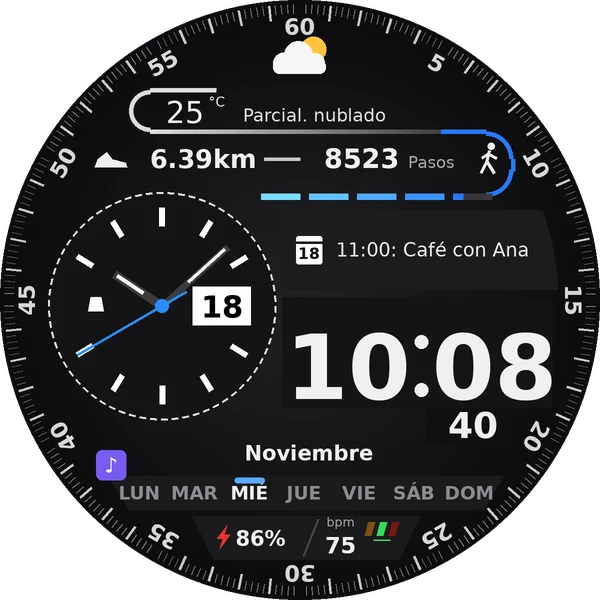
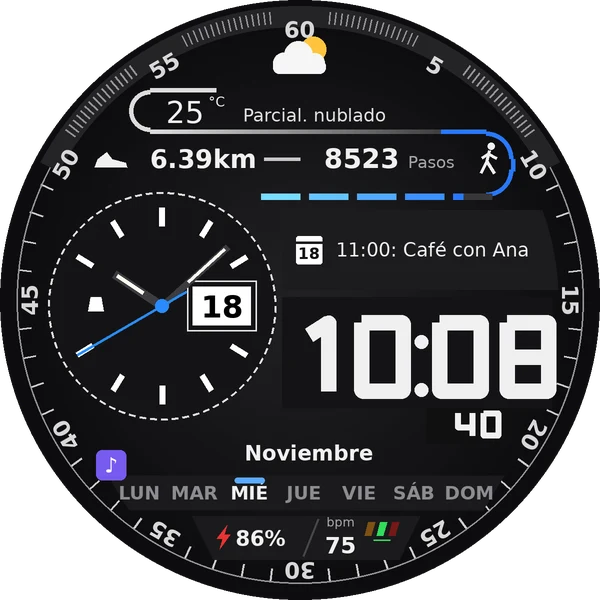
Pulso Híbrida: hora con números cuadrados, fecha con recuadro, ícono real del clima y escala como la foto
Claude-Session: https://claude.ai/code/session_01RTdv2VrACuR4VFWJLA57hx

diff --git a/android/esferas-de-reloj/hibrida/src/main/java/cl/carlospnauto/esfera/FaceService.kt b/android/esferas-de-reloj/hibrida/src/main/java/cl/carlospnauto/esfera/FaceService.kt
@@ -270,26 +270,58 @@ class HybridRenderer(
         canvas.drawCircle(cx, cy, r, fill)
         fill.shader = null
 
-        // ===== Escala del borde: rayitas finas, marcas cada 5 y los números 5…60 =====
+        // ===== Escala del borde (como la foto) =====
+        // Arriba (del 50 al 10): banda algo más clara con rayitas finas y apretadas entre los números
+        stroke.strokeCap = Paint.Cap.BUTT
+        stroke.color = Color.rgb(36, 36, 38)
+        stroke.strokeWidth = r * 0.07f
+        canvas.drawArc(RectF(cx - r * 0.945f, cy - r * 0.945f, cx + r * 0.945f, cy + r * 0.945f), -90f - 62f, 124f, false, stroke)
         for (i in 0 until 300) {
-            val ang = Math.toRadians(i * 1.2 - 90).toFloat()
-            val major = i % 25 == 0
-            val mid = i % 5 == 0
-            if (major) continue
-            val r0 = if (mid) 0.935f else 0.955f
-            stroke.color = if (mid) Color.rgb(200, 200, 200) else Color.rgb(120, 120, 125)
-            stroke.strokeWidth = r * (if (mid) 0.009f else 0.0045f)
-            canvas.drawLine(cx + cos(ang) * r * r0, cy + sin(ang) * r * r0, cx + cos(ang) * r * 0.985f, cy + sin(ang) * r * 0.985f, stroke)
+            val deg = i * 1.2f
+            val fromTop = if (deg > 180f) 360f - deg else deg
+            if (fromTop > 61f) continue
+            // Hueco para cada número
+            val toNum = (deg % 30f).let { minOf(it, 30f - it) }
+            if (toNum < 5.5f) continue
+            val ang = Math.toRadians(deg - 90.0).toFloat()
+            stroke.color = Color.rgb(150, 150, 155)
+            stroke.strokeWidth = r * 0.005f
+            canvas.drawLine(cx + cos(ang) * r * 0.925f, cy + sin(ang) * r * 0.925f, cx + cos(ang) * r * 0.965f, cy + sin(ang) * r * 0.965f, stroke)
         }
+        // Resto: una rayita por minuto, más larga en los 5, unidas por una línea escalonada
+        for (m in 0 until 60) {
+            val deg = m * 6f
+            val fromTop = if (deg > 180f) 360f - deg else deg
+            if (fromTop < 62f || m % 5 == 0) continue
+            val ang = Math.toRadians(deg - 90.0).toFloat()
+            stroke.color = Color.rgb(205, 205, 205)
+            stroke.strokeWidth = r * 0.008f
+            canvas.drawLine(cx + cos(ang) * r * 0.90f, cy + sin(ang) * r * 0.90f, cx + cos(ang) * r * 0.945f, cy + sin(ang) * r * 0.945f, stroke)
+        }
+        stroke.color = Color.rgb(150, 150, 155)
+        stroke.strokeWidth = r * 0.005f
+        for (side in listOf(1f, -1f)) {
+            // Línea fina del borde en la mitad de abajo (de un costado al otro)
+            canvas.drawArc(RectF(cx - r * 0.945f, cy - r * 0.945f, cx + r * 0.945f, cy + r * 0.945f), if (side > 0) -28f else 152f, 56f, false, stroke)
+        }
+        canvas.drawArc(RectF(cx - r * 0.945f, cy - r * 0.945f, cx + r * 0.945f, cy + r * 0.945f), 28f, 124f, false, stroke)
+        stroke.strokeCap = Paint.Cap.ROUND
         for (k in 1..12) {
             canvas.save()
             canvas.rotate(k * 30f, cx, cy)
-            write(canvas, "${k * 5}", cx, cy - r * 0.925f + r * 0.035f, r * 0.075f, Color.rgb(215, 215, 215), condensed, Paint.Align.CENTER)
+            write(canvas, "${k * 5}", cx, cy - r * 0.93f + r * 0.03f, r * 0.075f, Color.rgb(225, 225, 225), condensed, Paint.Align.CENTER)
             canvas.restore()
         }
 
         // ===== Clima =====
-        // Ícono (sol detrás de una nube)
+        // Ícono del clima que manda el dato elegido (sol, nube, lluvia…); si no trae, sol con nube
+        val wIcon = weatherIcon()
+        if (wIcon != null) {
+            val s = (r * 0.08f).toInt()
+            wIcon.setBounds((X(0f) - s).toInt(), (Y(-0.785f) - s).toInt(), (X(0f) + s).toInt(), (Y(-0.785f) + s).toInt())
+            wIcon.setTint(Color.WHITE)
+            wIcon.draw(canvas)
+        } else {
         fill.color = Color.rgb(255, 196, 60)
         canvas.drawCircle(X(0.045f), Y(-0.835f), r * 0.042f, fill)
         stroke.color = Color.rgb(255, 196, 60)
@@ -303,6 +335,7 @@ class HybridRenderer(
         canvas.drawCircle(X(-0.005f), Y(-0.815f), r * 0.048f, fill)
         canvas.drawCircle(X(0.05f), Y(-0.79f), r * 0.032f, fill)
         canvas.drawRoundRect(RectF(X(-0.09f), Y(-0.80f), X(0.085f), Y(-0.755f)), r * 0.02f, r * 0.02f, fill)
+        }
 
         // Marco del clima (corchete claro a la izquierda) y línea de abajo
         stroke.shader = LinearGradient(X(-0.55f), 0f, X(0.75f), 0f, Color.rgb(230, 230, 230), Color.rgb(60, 60, 62), Shader.TileMode.CLAMP)
@@ -431,17 +464,20 @@ class HybridRenderer(
         canvas.drawRect(X(-0.06f), Y(-0.01f), X(0.84f), Y(0.36f), fill)
         val is24 = DateFormat.is24HourFormat(context)
         val h = if (is24) "%02d".format(t.hour) else (if (t.hour % 12 == 0) 12 else t.hour % 12).toString()
-        val ts = r * 0.30f
-        write(canvas, h, X(0.37f), Y(0.33f), ts, white, bold, Paint.Align.RIGHT)
+        // Números cuadrados con las esquinas redondeadas, como los de la foto
+        val dH = r * 0.28f
+        val dW = r * 0.19f
+        val dT = r * 0.052f
+        SquareDigits.draw(canvas, h, X(0.37f), Y(0.33f) - dH, dW, dH, dT, r * 0.035f, white, alignRight = true)
         // Dos puntos redondos
         fill.color = white
         canvas.drawCircle(X(0.405f), Y(0.14f), r * 0.022f, fill)
         canvas.drawCircle(X(0.405f), Y(0.30f), r * 0.022f, fill)
-        write(canvas, "%02d".format(t.minute), X(0.44f), Y(0.33f), ts, white, bold, Paint.Align.LEFT)
+        SquareDigits.draw(canvas, "%02d".format(t.minute), X(0.44f), Y(0.33f) - dH, dW, dH, dT, r * 0.035f, white, alignRight = false)
         if (!ambient) {
             fill.color = Color.rgb(16, 16, 17)
             canvas.drawRect(X(0.42f), Y(0.36f), X(0.70f), Y(0.475f), fill)
-            write(canvas, "%02d".format(t.second), X(0.66f), Y(0.46f), r * 0.12f, white, bold, Paint.Align.RIGHT)
+            SquareDigits.draw(canvas, "%02d".format(t.second), X(0.67f), Y(0.462f) - r * 0.095f, r * 0.068f, r * 0.095f, r * 0.02f, r * 0.018f, white, alignRight = true)
         }
 
         // ===== Mes y días de la semana =====
@@ -525,6 +561,11 @@ class HybridRenderer(
         stroke.strokeCap = Paint.Cap.ROUND
         // Fecha a las 3
         val box = RectF(x + rad * 0.27f, y - rad * 0.17f, x + rad * 0.78f, y + rad * 0.17f)
+        // Recuadro con margen: un filo blanco por fuera, un hueco oscuro y la ventana blanca
+        stroke.color = Color.rgb(230, 230, 230)
+        stroke.strokeWidth = r * 0.006f
+        val m = rad * 0.05f
+        canvas.drawRect(box.left - m, box.top - m, box.right + m, box.bottom + m, stroke)
         fill.color = Color.WHITE
         canvas.drawRect(box, fill)
         write(canvas, "${t.dayOfMonth}", box.centerX(), box.centerY() + rad * 0.10f, rad * 0.27f, Color.BLACK, bold, Paint.Align.CENTER)
@@ -627,6 +668,24 @@ class HybridRenderer(
             canvas.drawArc(RectF(x - rr, y - rr, x + rr, y + rr), -50f, 40f, false, stroke)
             canvas.drawArc(RectF(x - rr, y - rr, x + rr, y + rr), 190f, 40f, false, stroke)
         }
+    }
+
+    // Ícono del clima (se carga una vez por cada dato nuevo)
+    private var wIconKey: Any? = null
+    private var wIconDrawable: android.graphics.drawable.Drawable? = null
+
+    private fun weatherIcon(): android.graphics.drawable.Drawable? {
+        val d = complications.complicationSlots[WEATHER]?.complicationData?.value
+        val icon = when (d) {
+            is androidx.wear.watchface.complications.data.ShortTextComplicationData -> d.monochromaticImage?.image ?: d.smallImage?.image
+            is androidx.wear.watchface.complications.data.RangedValueComplicationData -> d.monochromaticImage?.image ?: d.smallImage?.image
+            else -> null
+        }
+        if (icon !== wIconKey) {
+            wIconKey = icon
+            wIconDrawable = runCatching { icon?.loadDrawable(context)?.mutate() }.getOrNull()
+        }
+        return wIconDrawable
     }
 
     override fun renderHighlightLayer(canvas: Canvas, bounds: Rect, zonedDateTime: ZonedDateTime, sharedAssets: HybridAssets) {

diff --git a/android/esferas-de-reloj/hibrida/src/main/java/cl/carlospnauto/esfera/SquareDigits.kt b/android/esferas-de-reloj/hibrida/src/main/java/cl/carlospnauto/esfera/SquareDigits.kt
@@ -1,0 +1,88 @@
+package cl.carlospnauto.esfera
+
+import android.graphics.Canvas
+import android.graphics.CornerPathEffect
+import android.graphics.Paint
+import android.graphics.Path
+
+/**
+ * Números cuadrados de la esfera Pulso Híbrida: trazos gruesos rectos con las esquinas apenas
+ * redondeadas (como los de la foto), en vez de las letras redondas del sistema.
+ */
+object SquareDigits {
+    private val paint = Paint(Paint.ANTI_ALIAS_FLAG).apply {
+        style = Paint.Style.STROKE
+        strokeCap = Paint.Cap.BUTT
+        strokeJoin = Paint.Join.MITER
+    }
+    private val path = Path()
+
+    // Cada número: trazos sobre una caja de 0..1 (x) por 0..1 (y). L = izquierda, R = derecha,
+    // T = arriba, B = abajo, M = medio (se ajustan al grosor del trazo al dibujar)
+    private const val L = -1f
+    private const val R = -2f
+    private const val T = -3f
+    private const val B = -4f
+    private const val M = -5f
+
+    private val SHAPES: Map<Char, List<FloatArray>> = mapOf(
+        '0' to listOf(floatArrayOf(L, T, R, T, R, B, L, B, L, T)),
+        '1' to listOf(floatArrayOf(0.12f, 0.24f, 0.62f, T, 0.62f, B)),
+        '2' to listOf(floatArrayOf(L, T, R, T, R, M, L, M, L, B, R, B)),
+        '3' to listOf(floatArrayOf(L, T, R, T, R, B, L, B), floatArrayOf(0.30f, M, R, M)),
+        '4' to listOf(floatArrayOf(L, T, L, 0.60f, R, 0.60f), floatArrayOf(R, T, R, B)),
+        '5' to listOf(floatArrayOf(R, T, L, T, L, M, R, M, R, B, L, B)),
+        '6' to listOf(floatArrayOf(R, T, L, T, L, B, R, B, R, M, L, M)),
+        '7' to listOf(floatArrayOf(L, 0.24f, L, T, R, T, R, 0.40f, 0.62f, B)),
+        '8' to listOf(floatArrayOf(L, T, R, T, R, B, L, B, L, T), floatArrayOf(L, M, R, M)),
+        '9' to listOf(floatArrayOf(R, M, L, M, L, T, R, T, R, B, L, B)),
+    )
+
+    /** Ancho de un número ('1' es más angosto) */
+    private fun width(c: Char, w: Float) = if (c == '1') w * 0.68f else w
+
+    fun totalWidth(s: String, w: Float, gap: Float): Float {
+        var total = 0f
+        for ((i, c) in s.withIndex()) { total += width(c, w); if (i < s.length - 1) total += gap }
+        return total
+    }
+
+    /** Dibuja s con la caja de cada número de w × h; x es el borde izquierdo (o derecho con alignRight) */
+    fun draw(canvas: Canvas, s: String, x: Float, top: Float, w: Float, h: Float, thick: Float, gap: Float, color: Int, alignRight: Boolean) {
+        paint.color = color
+        paint.strokeWidth = thick
+        paint.pathEffect = CornerPathEffect(thick * 0.75f)
+        var cx = if (alignRight) x - totalWidth(s, w, gap) else x
+        for (c in s) {
+            val cw = width(c, w)
+            val shape = SHAPES[c]
+            if (shape != null) {
+                val half = thick / 2
+                fun px(v: Float) = when (v) {
+                    L -> cx + half
+                    R -> cx + cw - half
+                    else -> cx + v * cw
+                }
+                fun py(v: Float) = when (v) {
+                    T -> top + half
+                    B -> top + h - half
+                    M -> top + h / 2
+                    else -> top + v * h
+                }
+                for (stroke in shape) {
+                    // El 0 y el 8 son un cuadro cerrado (último punto = primero)
+                    val closed = stroke.size > 4 && stroke[0] == stroke[stroke.size - 2] && stroke[1] == stroke[stroke.size - 1]
+                    val end = if (closed) stroke.size - 2 else stroke.size
+                    path.reset()
+                    path.moveTo(px(stroke[0]), py(stroke[1]))
+                    var k = 2
+                    while (k < end) { path.lineTo(px(stroke[k]), py(stroke[k + 1])); k += 2 }
+                    if (closed) path.close()
+                    canvas.drawPath(path, paint)
+                }
+            }
+            cx += cw + gap
+        }
+        paint.pathEffect = null
+    }
+}
